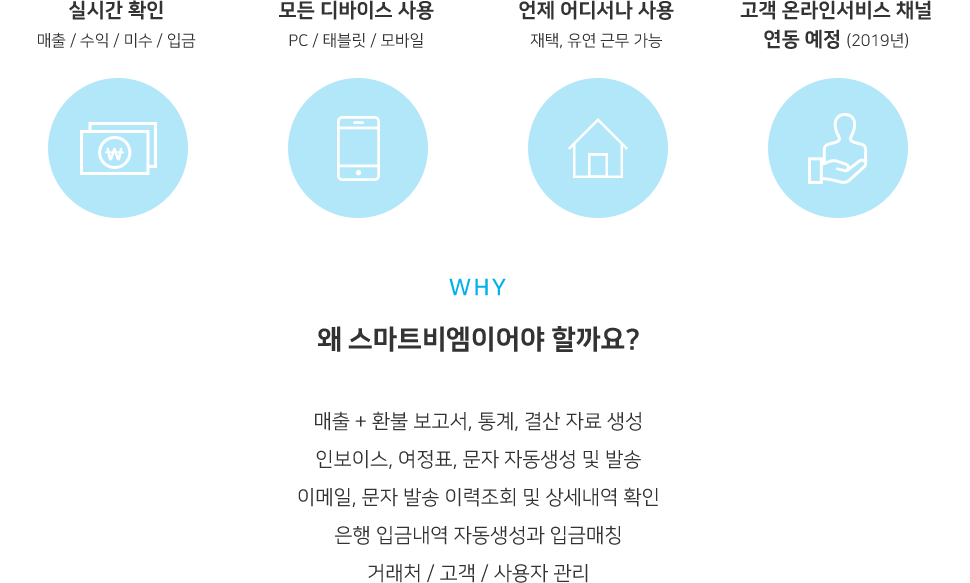
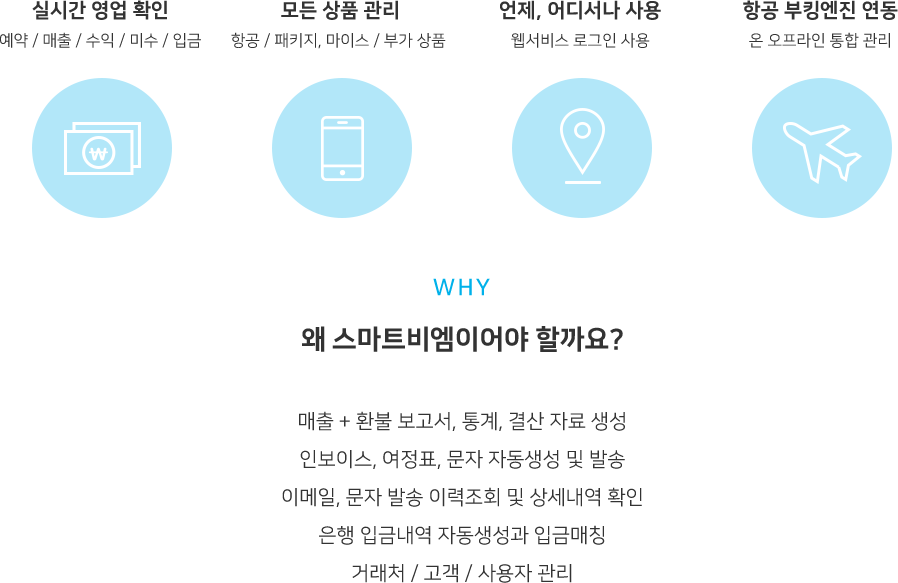
수정 스마트부킹엔진 소개 멘트 수정, gtag 수정, 이미지 수정

diff --git a/engine.html b/engine.html
@@ -35,7 +35,7 @@
     <script>
         window.dataLayer = window.dataLayer || [];
 
-        function gtag() {
+        function gtag(option1, option2) {
             dataLayer.push(arguments);
         }
 
@@ -85,19 +85,19 @@
                 <div class="content-sub-desc">
                     <ul class="engine-desc">
                         <li>
-                            개발 및 운영비 제로<br>
-                            직관적인 화면 설계로 초 스피드예약, 결제 가능<br>
-                            타 온라인 판매채널 연동 가능<br>
-                            고객 (기업 & 개인 & 여행사)별 통합 사용 가능한 솔루션
+                            직관적인 화면 설계로 초 스피드 예약, 결제 가능<br>
+                            고객 별 맞춤 수수료, 할인 운임 노출 가능<br>
+                            항공 타임테이블 조회 및 스케쥴 공유, 예약요청 가능<br>
+                            에약 스케쥴 변경 용이
                         </li>
                         <li>
+                            고객 (기업 & 개인 & 여행사)별 통합 사용 가능한 솔루션<br>
                             온라인 오프라인 통합 예약관리 및 매출, 수익, 미수 관리 제공<br>
-                            고객구분 수수료, 할인 맞춤 노출 및 운영 대행<br>
-                            기업고객 출장 승인 절차 & 비용관리, 통계 자료 제공
                         </li>
                         <li>
-                            항공 타임테이블 조회 및 스케쥴 공유 가능<br>
-                            예약 스케쥴 변경 용이
+                            기업고객 출장 승인관리와 비용 통계 서비스 제공<br>
+                            오픈마켓, 메타서치 연동 제공<br>
+                            수수료, 할인 관리 운영 대행
                         </li>
                     </ul>
                 </div>

diff --git a/bm.html b/bm.html
@@ -35,7 +35,7 @@
     <script>
         window.dataLayer = window.dataLayer || [];
 
-        function gtag() {
+        function gtag(option1, option2) {
             dataLayer.push(arguments);
         }
 

diff --git a/bm.mobile.html b/bm.mobile.html
@@ -35,7 +35,7 @@
     <script>
         window.dataLayer = window.dataLayer || [];
 
-        function gtag() {
+        function gtag(option1, option2) {
             dataLayer.push(arguments);
         }
 

diff --git a/company.html b/company.html
@@ -35,7 +35,7 @@
     <script>
         window.dataLayer = window.dataLayer || [];
 
-        function gtag() {
+        function gtag(option1, option2) {
             dataLayer.push(arguments);
         }
 

diff --git a/company.mobile.html b/company.mobile.html
@@ -34,7 +34,7 @@
     <script>
         window.dataLayer = window.dataLayer || [];
 
-        function gtag() {
+        function gtag(option1, option2) {
             dataLayer.push(arguments);
         }
 

diff --git a/contact.html b/contact.html
@@ -36,7 +36,7 @@
     <script>
         window.dataLayer = window.dataLayer || [];
 
-        function gtag() {
+        function gtag(option1, option2) {
             dataLayer.push(arguments);
         }
 

diff --git a/contact.mobile.html b/contact.mobile.html
@@ -35,7 +35,7 @@
     <script>
         window.dataLayer = window.dataLayer || [];
 
-        function gtag() {
+        function gtag(option1, option2) {
             dataLayer.push(arguments);
         }
 

diff --git a/engine.mobile.html b/engine.mobile.html
@@ -35,7 +35,7 @@
     <script>
         window.dataLayer = window.dataLayer || [];
 
-        function gtag() {
+        function gtag(option1, option2) {
             dataLayer.push(arguments);
         }
 

diff --git a/index.html b/index.html
@@ -35,7 +35,7 @@
     <script>
         window.dataLayer = window.dataLayer || [];
 
-        function gtag() {
+        function gtag(option1, option2) {
             dataLayer.push(arguments);
         }
 

diff --git a/index.mobile.html b/index.mobile.html
@@ -34,7 +34,7 @@
     <script>
         window.dataLayer = window.dataLayer || [];
 
-        function gtag() {
+        function gtag(option1, option2) {
             dataLayer.push(arguments);
         }
 
